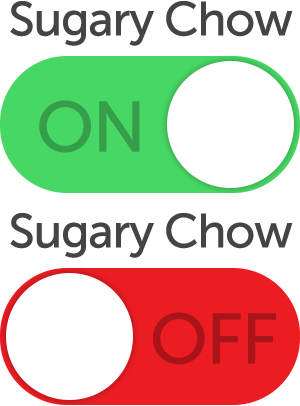
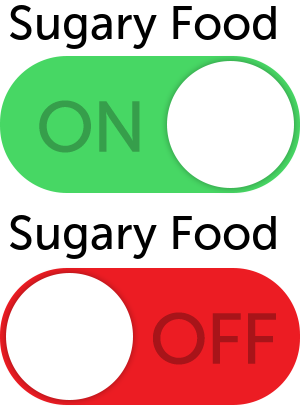
Change various labels and titles
chow -> food
propensity -> risk
diabetic rats -> rats with diabetes

Changed region(s): [[0.03, 0.5025, 0.99, 0.6502], [0.03, 0.0, 0.99, 0.1182]]

diff --git a/models/sand-rat-demo/app/field.html b/models/sand-rat-demo/app/field.html
@@ -42,7 +42,7 @@
     <div id="controls">
       <div style="border: 1px solid #EEE; padding: 4px; margin: 6px; background-color: #DDD; margin-left: 20px;">
         <input type="checkbox" id="view-sex-check" value="prone"> Show females and males <img style="position: absolute; width: 19px; left: 896px;" src="images/agents/female-stack.png"> <img style="position: absolute; width: 19px;" src="images/agents/male-stack.png"><br>
-        <input type="checkbox" id="view-prone-check" value="prone"> Show diabetes propensity <img style="position: absolute; width: 19px; left: 896px;" src="images/agents/prone-stack.png"><br>
+        <input type="checkbox" id="view-prone-check" value="prone"> Show diabetes risk <img style="position: absolute; width: 19px; left: 896px;" src="images/agents/prone-stack.png"><br>
         <input type="checkbox" id="view-diabetic-check" value="prone"> Show rats with diabetes <img style="position: absolute; width: 19px; left: 896px;" src="images/agents/diabetic-stack.png"><br>
       </div>
 

diff --git a/models/sand-rat-demo/public/field.html b/models/sand-rat-demo/public/field.html
@@ -42,7 +42,7 @@
     <div id="controls">
       <div style="border: 1px solid #EEE; padding: 4px; margin: 6px; background-color: #DDD; margin-left: 20px;">
         <input type="checkbox" id="view-sex-check" value="prone"> Show females and males <img style="position: absolute; width: 19px; left: 896px;" src="images/agents/female-stack.png"> <img style="position: absolute; width: 19px;" src="images/agents/male-stack.png"><br>
-        <input type="checkbox" id="view-prone-check" value="prone"> Show diabetes propensity <img style="position: absolute; width: 19px; left: 896px;" src="images/agents/prone-stack.png"><br>
+        <input type="checkbox" id="view-prone-check" value="prone"> Show diabetes risk <img style="position: absolute; width: 19px; left: 896px;" src="images/agents/prone-stack.png"><br>
         <input type="checkbox" id="view-diabetic-check" value="prone"> Show rats with diabetes <img style="position: absolute; width: 19px; left: 896px;" src="images/agents/diabetic-stack.png"><br>
       </div>
 

diff --git a/models/sand-rat-demo/app/authoring.html b/models/sand-rat-demo/app/authoring.html
@@ -47,8 +47,8 @@
 
       <div id="toolbar-options">
         <div>
-          <input type="checkbox" id="view-prone-check" value="prone"> Show diabetes propensity <img style="width: 19px;" src="images/agents/prone-stack.png"><br>
-          <input type="checkbox" id="view-diabetic-check" value="prone"> Show rats with diabetes <img style="width: 19px; left: 12px;" src="images/agents/diabetic-stack.png">
+          <input type="checkbox" id="view-prone-check" value="prone"> Show diabetes risk <img style="width: 19px;" src="images/agents/prone-stack.png"><br>
+          <input type="checkbox" id="view-diabetic-check" value="prone"> Show rats with diabetes <img style="width: 19px;" src="images/agents/diabetic-stack.png">
         </div>
         <div>
           <input type="checkbox" id="view-sex-check" value="prone"> Show females and males <img style="width: 19px;" src="images/agents/female-stack.png"> <img style="width: 19px;" src="images/agents/male-stack.png">

diff --git a/models/sand-rat-demo/app/lifespan.html b/models/sand-rat-demo/app/lifespan.html
@@ -45,8 +45,8 @@
 
       <div id="toolbar-options">
         <div>
-          <input type="checkbox" id="view-prone-check" value="prone"> Show diabetes propensity <img style="width: 19px;" src="images/agents/prone-stack.png"><br>
-          <input type="checkbox" id="view-diabetic-check" value="prone"> Show rats with diabetes <img style="width: 19px; left: 12px;" src="images/agents/diabetic-stack.png">
+          <input type="checkbox" id="view-prone-check" value="prone"> Show diabetes risk <img style="width: 19px;" src="images/agents/prone-stack.png"><br>
+          <input type="checkbox" id="view-diabetic-check" value="prone"> Show rats with diabetes <img style="width: 19px;" src="images/agents/diabetic-stack.png">
         </div>
         <div>
           <input type="checkbox" id="view-sex-check" value="prone"> Show females and males <img style="width: 19px;" src="images/agents/female-stack.png"> <img style="width: 19px;" src="images/agents/male-stack.png">

diff --git a/models/sand-rat-demo/app/pens.html b/models/sand-rat-demo/app/pens.html
@@ -45,8 +45,8 @@
 
       <div id="toolbar-options">
         <div>
-          <input type="checkbox" id="view-prone-check" value="prone"> Show diabetes propensity <img style="width: 19px;" src="images/agents/prone-stack.png"><br>
-          <input type="checkbox" id="view-diabetic-check" value="prone"> Show rats with diabetes <img style="width: 19px; left: 12px;" src="images/agents/diabetic-stack.png">
+          <input type="checkbox" id="view-prone-check" value="prone"> Show diabetes risk <img style="width: 19px;" src="images/agents/prone-stack.png"><br>
+          <input type="checkbox" id="view-diabetic-check" value="prone"> Show rats with diabetes <img style="width: 19px;" src="images/agents/diabetic-stack.png">
         </div>
         <div>
           <input type="checkbox" id="view-sex-check" value="prone"> Show females and males <img style="width: 19px;" src="images/agents/female-stack.png"> <img style="width: 19px;" src="images/agents/male-stack.png">

diff --git a/models/sand-rat-demo/public/authoring.html b/models/sand-rat-demo/public/authoring.html
@@ -47,8 +47,8 @@
 
       <div id="toolbar-options">
         <div>
-          <input type="checkbox" id="view-prone-check" value="prone"> Show diabetes propensity <img style="width: 19px;" src="images/agents/prone-stack.png"><br>
-          <input type="checkbox" id="view-diabetic-check" value="prone"> Show rats with diabetes <img style="width: 19px; left: 12px;" src="images/agents/diabetic-stack.png">
+          <input type="checkbox" id="view-prone-check" value="prone"> Show diabetes risk <img style="width: 19px;" src="images/agents/prone-stack.png"><br>
+          <input type="checkbox" id="view-diabetic-check" value="prone"> Show rats with diabetes <img style="width: 19px;" src="images/agents/diabetic-stack.png">
         </div>
         <div>
           <input type="checkbox" id="view-sex-check" value="prone"> Show females and males <img style="width: 19px;" src="images/agents/female-stack.png"> <img style="width: 19px;" src="images/agents/male-stack.png">

diff --git a/models/sand-rat-demo/public/lifespan.html b/models/sand-rat-demo/public/lifespan.html
@@ -45,8 +45,8 @@
 
       <div id="toolbar-options">
         <div>
-          <input type="checkbox" id="view-prone-check" value="prone"> Show diabetes propensity <img style="width: 19px;" src="images/agents/prone-stack.png"><br>
-          <input type="checkbox" id="view-diabetic-check" value="prone"> Show rats with diabetes <img style="width: 19px; left: 12px;" src="images/agents/diabetic-stack.png">
+          <input type="checkbox" id="view-prone-check" value="prone"> Show diabetes risk <img style="width: 19px;" src="images/agents/prone-stack.png"><br>
+          <input type="checkbox" id="view-diabetic-check" value="prone"> Show rats with diabetes <img style="width: 19px;" src="images/agents/diabetic-stack.png">
         </div>
         <div>
           <input type="checkbox" id="view-sex-check" value="prone"> Show females and males <img style="width: 19px;" src="images/agents/female-stack.png"> <img style="width: 19px;" src="images/agents/male-stack.png">

diff --git a/models/sand-rat-demo/public/pens.html b/models/sand-rat-demo/public/pens.html
@@ -45,8 +45,8 @@
 
       <div id="toolbar-options">
         <div>
-          <input type="checkbox" id="view-prone-check" value="prone"> Show diabetes propensity <img style="width: 19px;" src="images/agents/prone-stack.png"><br>
-          <input type="checkbox" id="view-diabetic-check" value="prone"> Show rats with diabetes <img style="width: 19px; left: 12px;" src="images/agents/diabetic-stack.png">
+          <input type="checkbox" id="view-prone-check" value="prone"> Show diabetes risk <img style="width: 19px;" src="images/agents/prone-stack.png"><br>
+          <input type="checkbox" id="view-diabetic-check" value="prone"> Show rats with diabetes <img style="width: 19px;" src="images/agents/diabetic-stack.png">
         </div>
         <div>
           <input type="checkbox" id="view-sex-check" value="prone"> Show females and males <img style="width: 19px;" src="images/agents/female-stack.png"> <img style="width: 19px;" src="images/agents/male-stack.png">

diff --git a/models/sand-rat-demo/public/model/chart.js b/models/sand-rat-demo/public/model/chart.js
@@ -119,7 +119,7 @@
         guide.category = '' + currentDate;
         guide.toCategory = '' + currentDate;
         guide.expand = true;
-        guide.label = 'Sugary chow added';
+        guide.label = 'Sugary food added';
         guide.position = 'left';
         guide.inside = true;
         guide.labelRotation = 90;
@@ -171,7 +171,7 @@
               valueField: 'diabetic',
               valueAxis: 'diabetic',
               openField: 'base',
-              title: 'Diabetic Rats',
+              title: 'Rats with Diabetes',
               visibleInLegend: false
             }, {
               id: 'diabetic-rats-line',
@@ -187,7 +187,7 @@
           valueAxes: [
             {
               id: 'diabetic',
-              title: 'Diabetic Rats',
+              title: 'Rats with Diabetes',
               autoGridCount: false,
               gridCount: 6,
               showFirstLabel: false,

diff --git a/models/sand-rat-demo/app/single-bar.html b/models/sand-rat-demo/app/single-bar.html
@@ -48,7 +48,7 @@
 
       <div style="border: 1px solid #EEE; padding: 4px; margin: 6px; background-color: #DDD; margin-left: 0px;">
         <input type="checkbox" id="view-sex-check" value="prone"> Show females and males <img style="width: 19px;" src="images/agents/female-stack.png"> <img style="width: 19px;" src="images/agents/male-stack.png"><br>
-        <input type="checkbox" id="view-prone-check" value="prone"> Show diabetes propensity <img style="width: 19px;" src="images/agents/prone-stack.png"><br>
+        <input type="checkbox" id="view-prone-check" value="prone"> Show diabetes risk <img style="width: 19px;" src="images/agents/prone-stack.png"><br>
         <input type="checkbox" id="view-diabetic-check" value="prone"> Show rats with diabetes <img style="width: 19px;" src="images/agents/diabetic-stack.png"><br>
       </div>
 

diff --git a/models/sand-rat-demo/public/single-bar.html b/models/sand-rat-demo/public/single-bar.html
@@ -48,7 +48,7 @@
 
       <div style="border: 1px solid #EEE; padding: 4px; margin: 6px; background-color: #DDD; margin-left: 0px;">
         <input type="checkbox" id="view-sex-check" value="prone"> Show females and males <img style="width: 19px;" src="images/agents/female-stack.png"> <img style="width: 19px;" src="images/agents/male-stack.png"><br>
-        <input type="checkbox" id="view-prone-check" value="prone"> Show diabetes propensity <img style="width: 19px;" src="images/agents/prone-stack.png"><br>
+        <input type="checkbox" id="view-prone-check" value="prone"> Show diabetes risk <img style="width: 19px;" src="images/agents/prone-stack.png"><br>
         <input type="checkbox" id="view-diabetic-check" value="prone"> Show rats with diabetes <img style="width: 19px;" src="images/agents/diabetic-stack.png"><br>
       </div>
 
